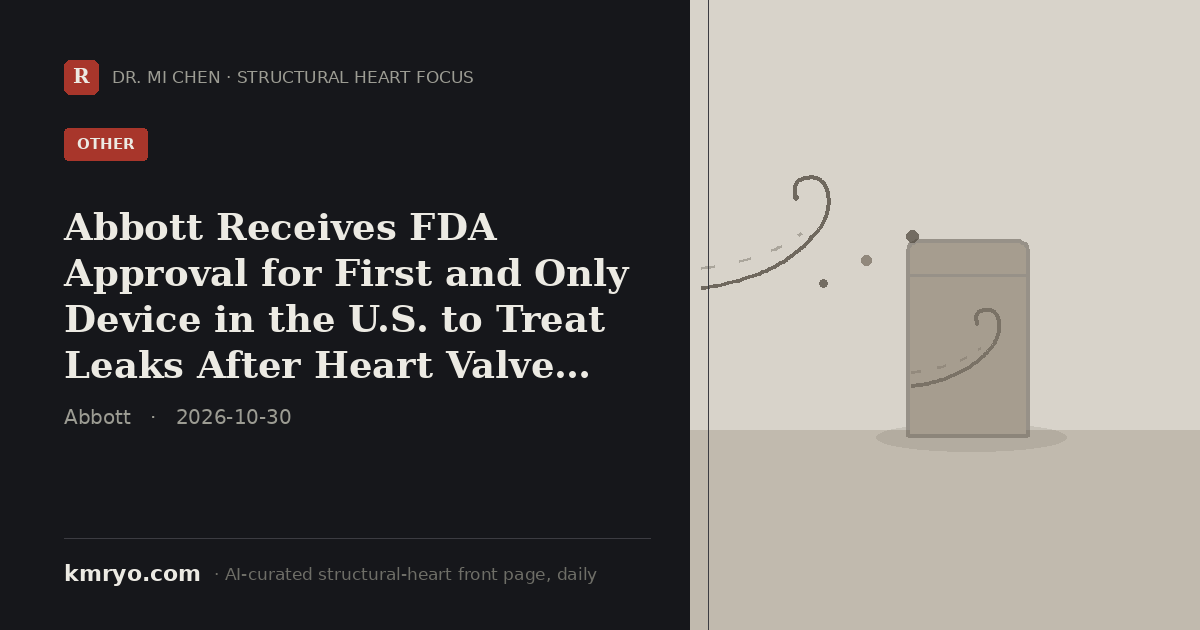
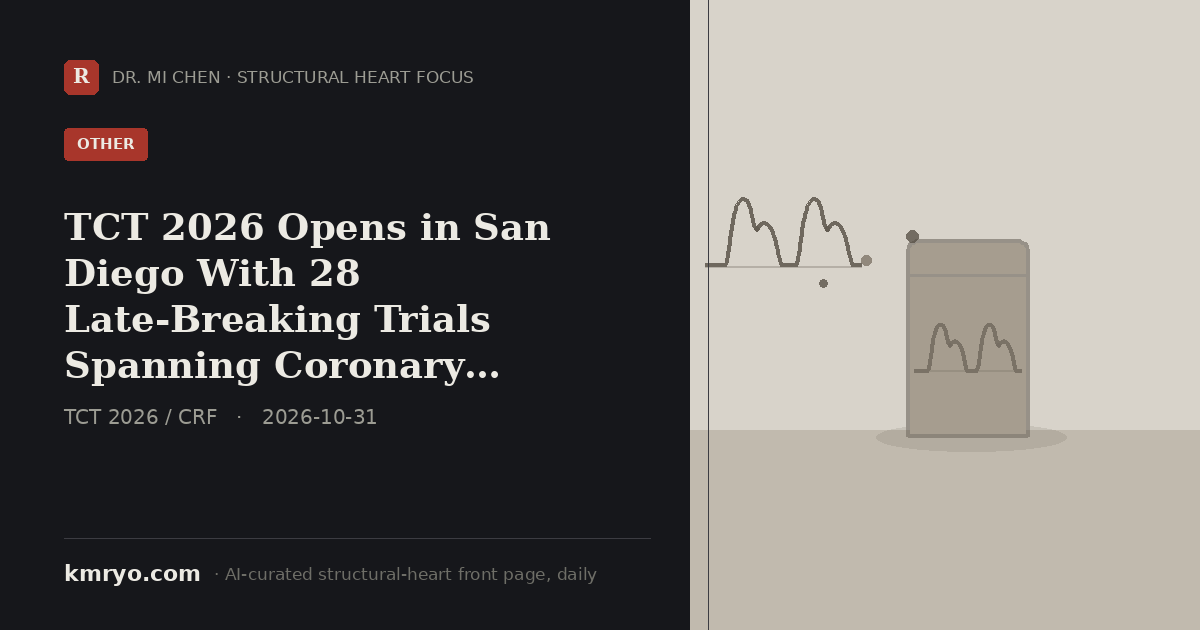
pulse: 2026-10-31 daily update
Claude-Session: https://claude.ai/code/session_01VwCofkpJTZo6zbhzzrZ5ZM

Changed region(s): [[0.0308, 0.3317, 0.5242, 0.6937], [0.5858, 0.2714, 0.7092, 0.4524], [0.7708, 0.4825, 0.8633, 0.6032]]

diff --git a/index.html b/index.html
@@ -6,8 +6,8 @@
 <title>Structural Heart Focus — Daily | Dr. Mi Chen</title>
 <meta name="description" content="Structural Heart Focus — the day's most important structural-heart reading (top journals, major meetings and the field's conversation), curated daily by an AI agent from inside the Zurich hybrid room. By Dr. Mi Chen.">
 <!-- Social share card. Regenerated daily by the pulse agent (pulse/make_share_card.py); og:title/description updated to the day's top story so LinkedIn/WeChat/X show today's headline, not a static portrait. -->
-<meta property="og:title" content="Abbott Receives FDA Approval for First and Only Device in the U.S. to Treat Leaks After Heart Valve Replacement Without Additional Surgery">
-<meta property="og:description" content="The FDA approved Abbott's Amplatzer Paraclose PVL Occluder on Oct 28, the first transcatheter device cleared in the US to close paravalvular leak after surgical valve replacement.">
+<meta property="og:title" content="TCT 2026 Opens in San Diego With 28 Late-Breaking Trials Spanning Coronary, Structural Heart, Peripheral and Renal Denervation Research">
+<meta property="og:description" content="TCT 2026 opened October 31 in San Diego with 28 late-breaking studies, including the PROGRESS trial of TAVR vs. surveillance for moderate aortic stenosis and 1-year CLASP IITR tricuspid repair data.">
 <meta property="og:image" content="https://www.kmryo.com/pulse/img/share/card.png">
 <meta property="og:image:width" content="1200">
 <meta property="og:image:height" content="630">
@@ -16,8 +16,8 @@
 <meta property="og:type" content="website">
 <meta property="og:site_name" content="kmryo.com · Structural Heart Focus">
 <meta name="twitter:card" content="summary_large_image">
-<meta name="twitter:title" content="Abbott Receives FDA Approval for First and Only Device in the U.S. to Treat Leaks After Heart Valve Replacement Without Additional Surgery">
-<meta name="twitter:description" content="The FDA approved Abbott's Amplatzer Paraclose PVL Occluder on Oct 28, the first transcatheter device cleared in the US to close paravalvular leak after surgical valve replacement.">
+<meta name="twitter:title" content="TCT 2026 Opens in San Diego With 28 Late-Breaking Trials Spanning Coronary, Structural Heart, Peripheral and Renal Denervation Research">
+<meta name="twitter:description" content="TCT 2026 opened October 31 in San Diego with 28 late-breaking studies, including the PROGRESS trial of TAVR vs. surveillance for moderate aortic stenosis and 1-year CLASP IITR tricuspid repair data.">
 <meta name="twitter:image" content="https://www.kmryo.com/pulse/img/share/card.png">
[1 lines of base64/hex data omitted]
 <link rel="preconnect" href="https://fonts.googleapis.com">
